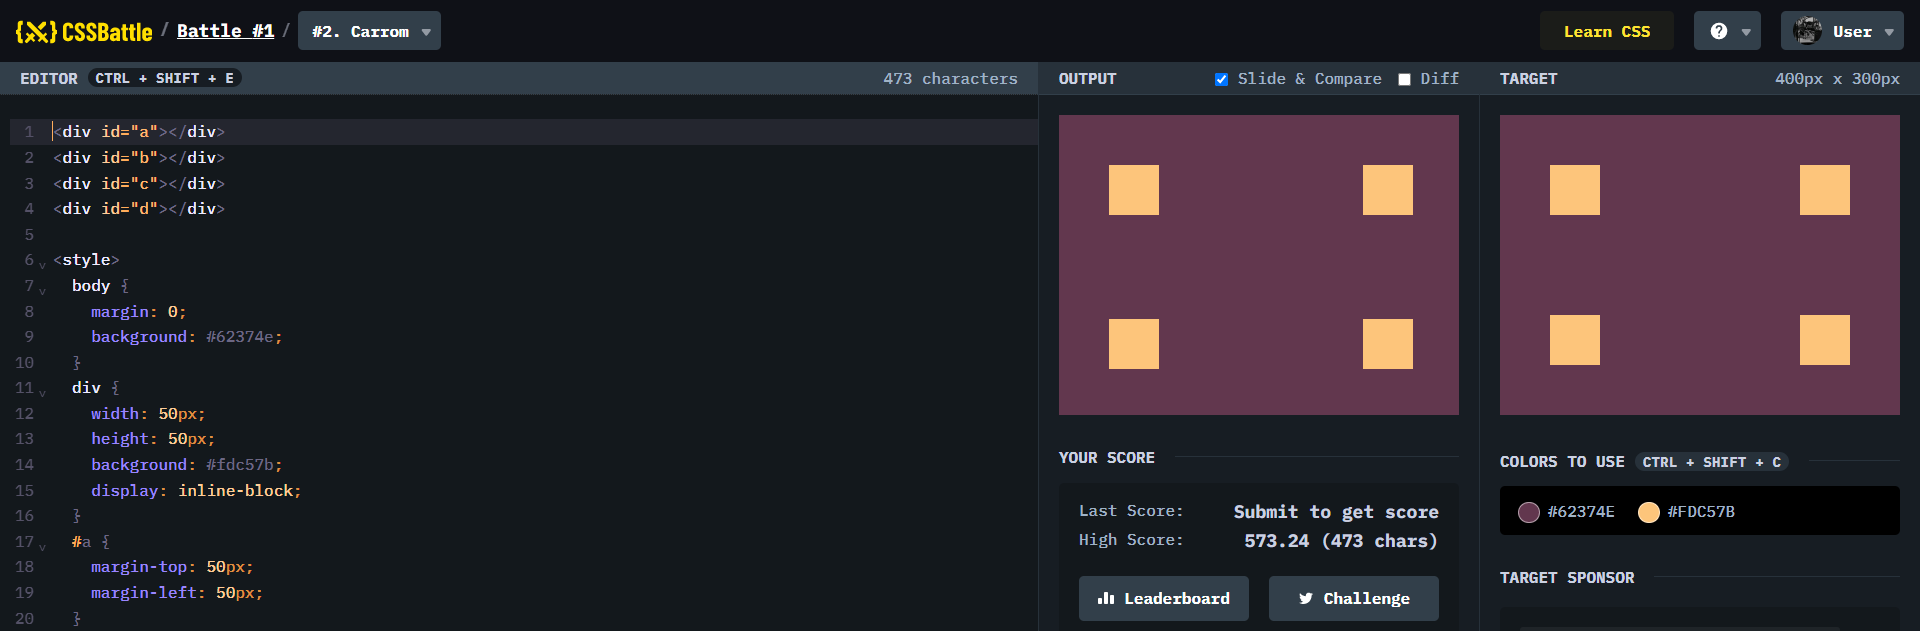
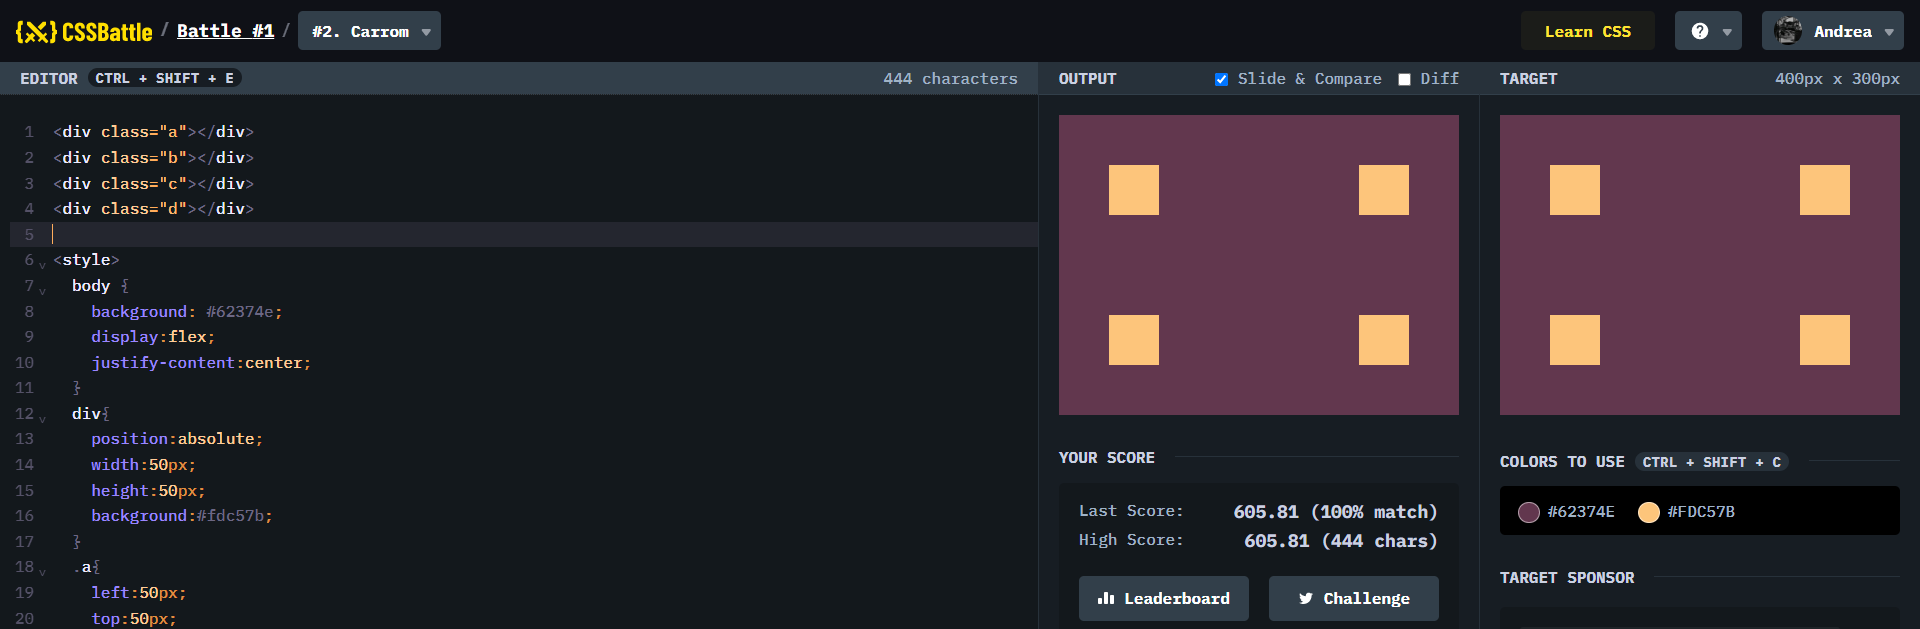
fix bug

diff --git a/solutions/01 - Pilot Battle/02_carrom.md b/solutions/01 - Pilot Battle/02_carrom.md
@@ -7,37 +7,38 @@
 ![result](./images/02_carrom.png)
 
 ```html
-<div id="a"></div>
-<div id="b"></div>
-<div id="c"></div>
-<div id="d"></div>
+<div class="a"></div>
+<div class="b"></div>
+<div class="c"></div>
+<div class="d"></div>
 
 <style>
   body {
-    margin: 0;
     background: #62374e;
+    display:flex;
+    justify-content:center;
   }
-  div {
-    width: 50px;
-    height: 50px;
-    background: #fdc57b;
-    display: inline-block;
+  div{
+    position:absolute;
+    width:50px;
+    height:50px;
+    background:#fdc57b;
   }
-  #a {
-    margin-top: 50px;
-    margin-left: 50px;
+  .a{
+    left:50px;
+    top:50px;
   }
-  #b {
-    margin-top: 50px;
-    margin-left: 200px;
+  .b{
+    right:50px;
+    top:50px;
   }
-  #c {
-    margin-top: 100px;
-    margin-left: 50px;
+  .c{
+    left:50px;
+    bottom:50px;
   }
-  #d {
-    margin-top: 100px;
-    margin-left: 200px;
+  .d{
+    right:50px;
+    bottom:50px;
   }
 </style>
 ```

diff --git a/solutions/01 - Pilot Battle/10_cloaked-spirits.md b/solutions/01 - Pilot Battle/10_cloaked-spirits.md
@@ -33,7 +33,7 @@
   }
   .base{
     bottom: 0;
-    width:100px;
+    width: 100px;
     height: 100px;
     background:#F7EC7D;
   }
@@ -44,26 +44,26 @@
     right: 50px;
   }
   .circle2{
-    top:70px;
+    top:50px;
     width:60px;
     height:60px;
     border-radius:50%;
     background:#AA445F;
-    outline:20px solid #E38F66;
+    border: 20px solid #E38F66;
   }
   .circle{
     width:60px;
     height:60px;
     border-radius:50%;
     background:#E38F66;
-    outline:20px solid #AA445F;
-    top:170px;
+    border: 20px solid #AA445F;
+    top:150px;
   }
   .circle1{
-    left:70px;
+    left:50px;
   }
   .circle3{
-    right:70px;
+    right:50px;
 
   }
 </style>

diff --git a/solutions/02 - Visibility/13_totally-triangle.md b/solutions/02 - Visibility/13_totally-triangle.md
@@ -3,3 +3,25 @@
 ## #13 - Totally Triangle
 
 [Link to the problem](https://cssbattle.dev/play/13)
+
+![result](./images/13_totally-triangle.png)
+
+```html
+<div></div>
+<style>
+  body{
+    background:#0B2429;
+  }
+  div {
+    position:absolute;
+    top:0;
+    left:0;
+    width: 0;
+    height: 0;
+    border-top: 70px solid #F3AC3C;
+    border-left: 70px solid #F3AC3C;
+    border-right: 70px solid transparent;
+    border-bottom: 70px solid transparent;
+  }
+</style>
+```

diff --git a/solutions/01 - Pilot Battle/07_leafy-trail.md b/solutions/01 - Pilot Battle/07_leafy-trail.md
@@ -10,6 +10,7 @@
 <div class ="div1"></div>
 <div class ="div2"></div>
 <div class ="div3"></div>
+
 <style>
   body{
     background:#0B2429;
@@ -23,15 +24,15 @@
 
   }
   .div1{
-    left: 19%;
+    left: 18.8%;
     background: #1A4341;
   }
   .div2 {
-    left:31%;
+    left:31.3%;
     background: #998235
   }
   .div3 {
-    left:44%;
+    left:43.8%;
     background: #F3AC3C
   }
 </style>
